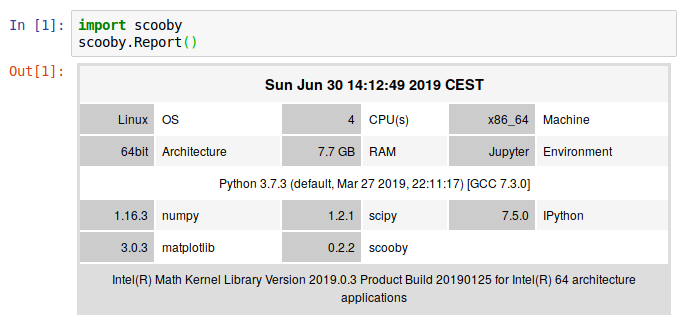
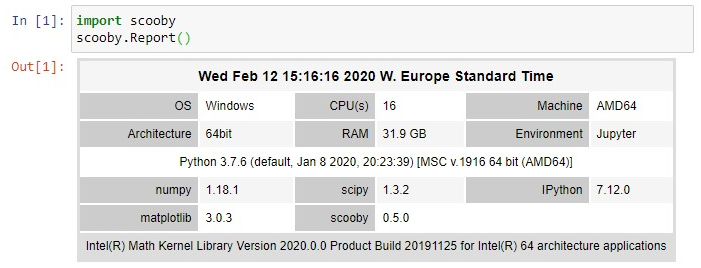
README.md with new reports in HTML and Plain Text after changed order of name and version

Changed region(s): [[0.0, 0.0, 0.9897, 0.9851], [0.9897, 0.0299, 1.0, 0.1791]]

diff --git a/README.md b/README.md
@@ -54,25 +54,25 @@ representation of the script.
 ```
 ```
 --------------------------------------------------------------------------------
-  Date: Sun Jun 30 12:51:42 2019 MDT
+  Date: Wed Feb 12 15:35:43 2020 W. Europe Standard Time
 
-            Darwin : OS
-                12 : CPU(s)
-            x86_64 : Machine
-             64bit : Architecture
-           32.0 GB : RAM
-            Python : Environment
+                OS : Windows
+            CPU(s) : 16
+           Machine : AMD64
+      Architecture : 64bit
+               RAM : 31.9 GB
+       Environment : IPython
 
-  Python 3.7.3 | packaged by conda-forge | (default, Mar 27 2019, 15:43:19)
-  [Clang 4.0.1 (tags/RELEASE_401/final)]
+  Python 3.7.6 | packaged by conda-forge | (default, Jan  7 2020, 21:48:41)
+  [MSC v.1916 64 bit (AMD64)]
 
-            1.16.3 : numpy
-             1.3.0 : scipy
-             7.5.0 : IPython
-             3.1.0 : matplotlib
-             0.2.2 : scooby
+             numpy : 1.18.1
+             scipy : 1.3.1
+           IPython : 7.12.0
+        matplotlib : 3.0.3
+            scooby : 0.5.0
 
-  Intel(R) Math Kernel Library Version 2018.0.3 Product Build 20180406 for
+  Intel(R) Math Kernel Library Version 2019.0.4 Product Build 20190411 for
   Intel(R) 64 architecture applications
 --------------------------------------------------------------------------------
 ```
@@ -86,26 +86,27 @@ either as strings or give already imported packages:
 ```
 ```
 --------------------------------------------------------------------------------
-  Date: Mon Jul 01 10:55:24 2019 CEST
+  Date: Wed Feb 12 16:15:15 2020 W. Europe Standard Time
 
-             Linux : OS
-                 4 : CPU(s)
-            x86_64 : Machine
-             64bit : Architecture
-           15.6 GB : RAM
-           IPython : Environment
+                OS : Windows
+            CPU(s) : 16
+           Machine : AMD64
+      Architecture : 64bit
+               RAM : 31.9 GB
+       Environment : IPython
 
-  Python 3.7.3 (default, Mar 27 2019, 22:11:17)  [GCC 7.3.0]
+  Python 3.7.6 | packaged by conda-forge | (default, Jan  7 2020, 21:48:41)
+  [MSC v.1916 64 bit (AMD64)]
 
-            0.20.4 : pyvista
-             8.1.2 : vtk
-   Version unknown : no_version
-  Could not import : does_not_exist
-            1.16.4 : numpy
-             1.2.1 : scipy
-             7.5.0 : IPython
-             3.1.0 : matplotlib
-             0.3.0 : scooby
+           pyvista : 0.23.1
+               vtk : 8.1.2
+        no_version : Version unknown
+    does_not_exist : Could not import
+             numpy : 1.18.1
+             scipy : 1.3.1
+           IPython : 7.12.0
+        matplotlib : 3.0.3
+            scooby : 0.5.0
 
   Intel(R) Math Kernel Library Version 2019.0.4 Product Build 20190411 for
   Intel(R) 64 architecture applications
